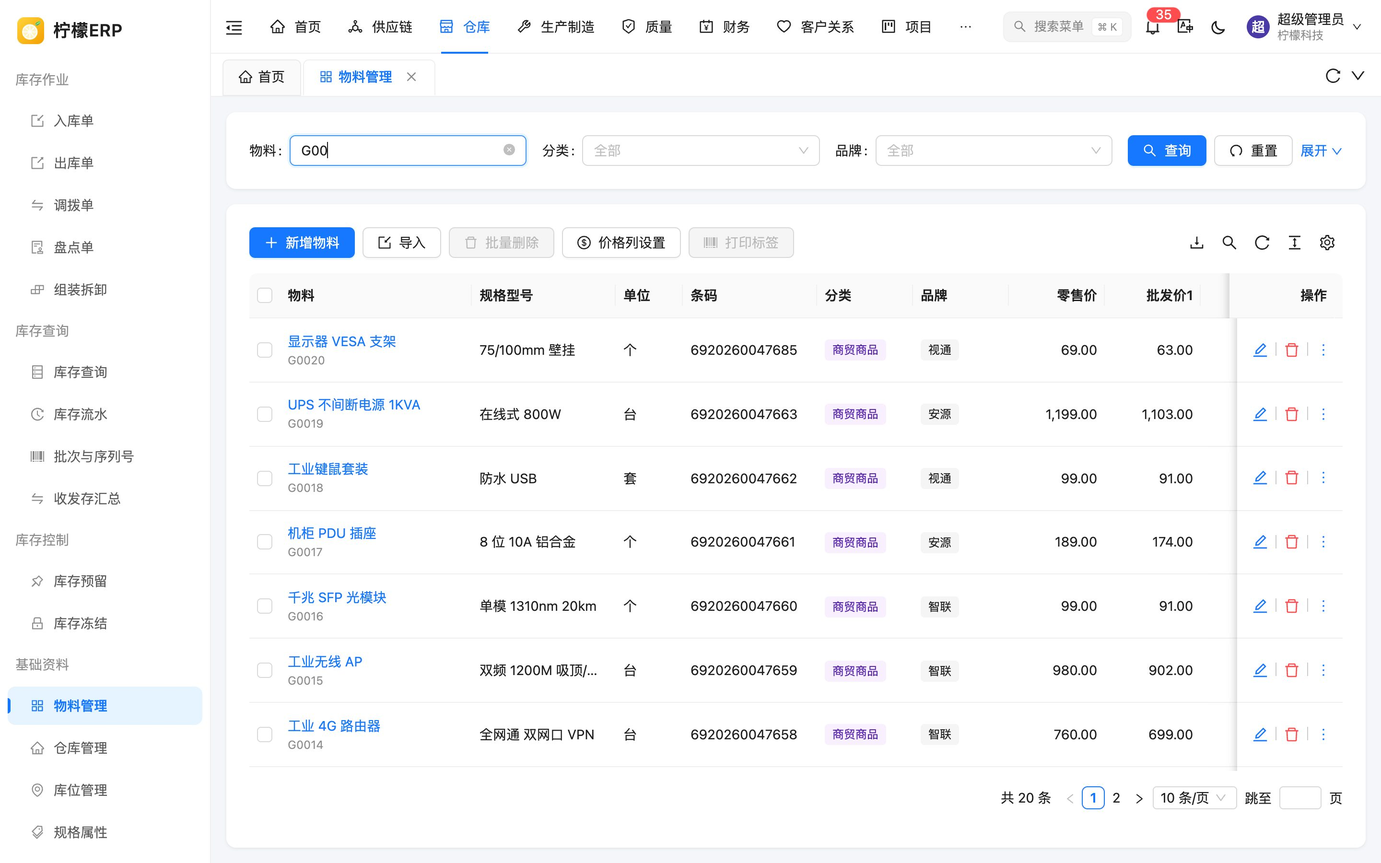
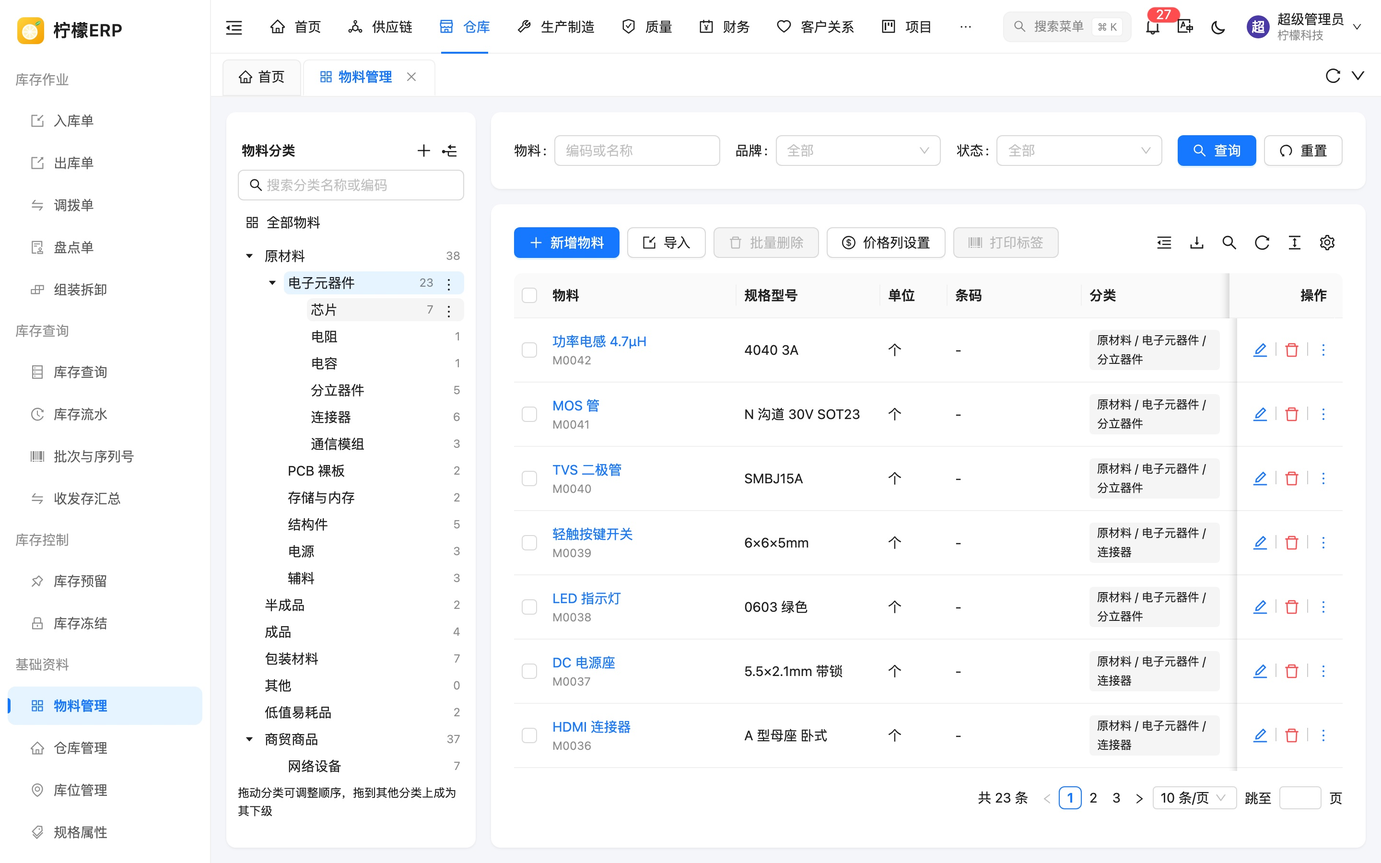
docs: 物料多级分类、供应商营运路线加长的说明

diff --git a/docs/manual/wms/material.md b/docs/manual/wms/material.md
@@ -14,7 +14,9 @@ order: 10
 
 ## 列表
 
-**查询条件**：物料（编码或名称）、分类、品牌、状态（启用 / 停用）。
+页面左侧是[物料分类](#物料分类)树，右侧是物料列表。点击左侧的分类，列表只显示该分类及其所有下级分类的物料；点「全部物料」恢复显示全部。
+
+**查询条件**：物料（编码或名称）、品牌、状态（启用 / 停用）；分类在左侧分类树中选择。
 
 **工具栏**：
 
@@ -26,6 +28,7 @@ order: 10
 | 价格列设置 | 设置零售价、批发价1～8 的名称和是否启用（需要「价格列设置」权限），见[价格列设置](#价格列设置) |
 | 打印标签（N） | 为勾选的物料（当前页）打印物料条码标签 |
 | 导出 | 按当前查询条件导出 Excel |
+| 隐藏分类 / 显示分类 | 工具栏右侧的图标按钮，收起或展开左侧的分类树，本机浏览器会记住当前状态 |
 
 ::: tip AI 识别与数据整理
 管理员开启 AI 功能后，工具栏中还有「AI 识别」：上传产品规格书、物料清单，由 [智能录入](../ai/extract) 识别后打开新增物料表单并填好，核对后保存。物料多了出现重复（如「M3*10 螺丝」与「螺钉 M3×10」）、规格写法不统一、分类或单位缺失时，可以用 [数据整理](../ai/cleanse) 让 AI 给出查重和规范化建议。
@@ -38,7 +41,7 @@ order: 10
 | 物料 | 名称（点击打开详情），多规格款式在名称后显示紫红色「款式」标签；下方为编码，SKU 在编码后显示规格（如「TS01-RD-XL · 红色 / XL」） |
 | 规格型号、单位 | — |
 | 条码 | 未填写显示「-」 |
-| 分类 | 原材料、半成品、成品、包装材料、低值易耗品、其他 |
+| 分类 | 物料分类的完整路径，如「原材料 / 电子元器件 / 连接器」 |
 | 品牌 | 业务字典「商品品牌」中的值 |
 | 零售价、批发价… | 启用的价格列，列名为价格列设置中的名称；可在列设置中隐藏 |
 | 追踪方式 | 「批次」「序列号」「来料检验」标签，都没有时显示「-」 |
@@ -60,6 +63,52 @@ order: 10
 | 更多 → 经营历史 | 查看该物料的期初余额和每一笔库存进出（单号、业务类型、往来单位、单价、数量、结余），见[经营历史](./stock#经营历史)。款式行不显示 |
 | 更多 → 多规格 | 打开多规格抽屉：为物料选择规格属性生成 SKU，已是款式时查看各 SKU 及库存矩阵、补充生成新的 SKU，见[多规格物料与 SKU](#多规格物料与-sku)。SKU 行不显示此项 |
 
+## 物料分类
+
+物料分类是多级的（最多 5 级），例如「原材料 → 电子元器件 → 电阻」，在本页左侧的「物料分类」树中维护，不再在业务字典中维护。初始有原材料、半成品、成品、包装材料、其他、低值易耗品 6 个一级分类，可以在它们下面建下级分类，也可以新增其他一级分类。
+
+**查看**：
+
+- 分类树顶部是「全部物料」，下面按层级列出分类；每个分类右侧的数字是该分类及其所有下级分类的物料数，停用的分类后面显示「停用」标签；
+- 搜索框可按分类名称或编码查找；标题右侧的按钮可以全部展开 / 全部折叠；
+- 点击分类时，右侧列出该分类及其所有下级分类的物料。
+
+**维护**（需要「物料分类维护」按钮权限，没有时分类树只能查看）：
+
+| 操作 | 说明 |
+| --- | --- |
+| 新增一级分类 | 分类树标题右侧的「+」图标 |
+| 新增下级分类 | 鼠标移到分类上，点右侧三个点图标中的「新增下级分类」；已经是第 5 级时不可用 |
+| 编辑 | 三个点菜单中的「编辑」，可修改上级分类、名称、排序、状态、备注 |
+| 删除 | 三个点菜单中的「删除」，确认后删除，不能删除的情况见下文 |
+| 拖动排序 | 直接拖动分类调整顺序；拖到其他分类上就成为它的下级。搜索时不能拖动 |
+
+新增 / 编辑分类的字段：
+
+| 字段 | 必填 | 说明 |
+| --- | --- | --- |
+| 上级分类 | 否 | 不选为一级分类。不能选它自己或它的下级 |
+| 分类编码 | 否 | 只能包含字母、数字、下划线和短横线，不超过 16 位，不能重复；**留空自动生成**（如 C0001）。物料、检验方案、促销等按编码关联，**保存后不能修改** |
+| 分类名称 | 是 | 最多 64 个字；同一上级下不能重名 |
+| 排序 | 否 | 留空排在最后 |
+| 状态 | 是 | 停用后不能再给物料选择该分类及其下级分类，已有物料不受影响 |
+| 备注 | 否 | 最多 255 字 |
+
+因为各处按编码关联分类，修改分类名称、移动到其他上级、调整层级都不影响已有的物料和设置，显示的名称和路径会随之变化。
+
+**不能删除的情况**（删除时提示原因）：
+
+- 下面还有下级分类：先删除或移走下级分类；
+- 分类下有物料：先把物料改到其他分类，或者停用该分类；
+- 被[检验方案](../qms/plan)、[促销活动](../scm/promotion)、[返利协议](../scm/rebate)的返利项目、[提成规则](../scm/commission)、[凭证科目设置](../fin/account-rule)引用；
+- 内置分类（原材料、半成品、成品、低值易耗品）：系统按它们计算凭证科目、低值易耗品领用等，不能删除，可以改名或停用。
+
+**下级分类的规则**：
+
+- 按分类筛选的地方（本页、[商品价格](../scm/goods-price)、[库存查询](./stock)、收发存汇总、库龄分析、[进销存报表](../scm/jxc)、[生产统计](../mes/stat)、[销售预测](../bi/decision)等）选择上级分类时，**包含所有下级分类**的物料；
+- 按分类设置的规则（[检验方案](../qms/plan)、[促销](../scm/promotion)、[销售提成](../scm/commission)、[凭证科目设置](../fin/account-rule)）中，**上级分类的设置对下级分类同样适用**；下级分类自己有设置时用自己的，多级上级都有设置时取最近的一级；
+- 按分类汇总的报表按物料所在的分类分别统计，名称显示完整路径。
+
 ## 新增 / 编辑物料
 
 ![编辑物料](/images/manual/wms/material-edit.jpg)
@@ -72,8 +121,8 @@ order: 10
 | 物料名称 | 是 | 最多 128 字 |
 | 规格型号 | 否 | — |
 | 计量单位 | 否 | 基本单位，可从常用单位（个、件、台、箱、包、桶、瓶、袋、kg、g、L、m）中选或自行输入。库存、成本都按基本单位 |
-| 分类 | 否 | 物料分类字典 |
-| 品牌 | 否 | 从业务字典「商品品牌」中选择（可搜索），品牌的取值在「系统管理 → [字典管理](../system/dict)」中维护；[进销存报表](../scm/jxc)可按品牌汇总 |
+| 分类 | 否 | 从物料分类树中选择（可搜索），选中后显示完整路径。可以选任意一级分类；已停用的分类及其下级不能选择 |
+| 品牌 | 否 | 从业务字典「商品品牌」中选择（可搜索），品牌的取值在「系统管理 → [业务字典](../system/biz-dict)」中维护；[进销存报表](../scm/jxc)可按品牌汇总 |
 | 安全库存 | 否 | 全部仓库的库存合计低于该值时预警（库存查询、首页待办）；MRP 计算净需求时也会保留这部分库存。为空不预警 |
 | 再订货点 | 否 | 预计库存（可用 + 采购在途 + 在制 − 销售待发 − 工单待领料）不高于此值时，出现在「供应链 → 采购 → [补货建议](../scm/reorder)」中。为空不参与 |
 | 再订货量 | 否 | 经济批量，补货建议的建议数量 |
@@ -236,6 +285,16 @@ order: 10
 
 点击「导入」：先「下载导入模板」，按模板填写后上传 .xlsx 文件。可导入的列：物料编码 *、物料名称 *、规格型号、计量单位、分类、品牌、批次管理（是 / 否）、序列号管理（是 / 否）、来料检验（是 / 否）、安全库存、启用的各价格列（列名为价格列设置中的名称）、备注。品牌须是「商品品牌」字典中的值。带 * 的列必填，**任何一行有错误时整批不导入**，弹窗中列出错误行。
 
+「分类」列可以按以下任一种写法填写，须是未停用的分类：
+
+| 写法 | 示例 | 说明 |
+| --- | --- | --- |
+| 分类编码 | RAW、C0003 | 不区分大小写 |
+| 完整路径 | 电子元器件/电阻 | 从一级分类写起，各级之间用「/」分隔，「/」两侧有没有空格都可以 |
+| 分类名称 | 电阻 | 只有一个分类叫这个名称时才能匹配；有重名时请改写编码或完整路径 |
+
+匹配不上时提示「找不到物料分类「…」（可填写分类编码、完整路径如「电子元器件/电阻」，或不重名的分类名称）」。分类需要先在左侧分类树中建好，导入不会自动新建分类。导出时「分类」列输出完整路径，可以直接再导入。
+
 ## 打印物料标签
 
 勾选物料（当前页）后点「打印标签（N）」：
@@ -254,5 +313,6 @@ order: 10
 - 多规格款式下还有 SKU 时不能删除；款式不能直接出入库，单据中请选择具体的 SKU；
 - 已发生库存业务的物料不能修改批次、序列号管理方式；
 - 条码在所有物料和辅助单位之间必须唯一；
+- 物料分类的编码保存后不能修改；有下级分类、有物料、被其他设置引用的分类以及内置分类不能删除，不用的分类可以停用；
 - 多规格款式生成 SKU 时不继承品牌和销售价格，需要为 SKU 单独填写。
 :::

diff --git a/docs/dev/architecture/tenant.md b/docs/dev/architecture/tenant.md
@@ -68,9 +68,9 @@ long total = TenantContext.callIgnore(() -> mapper.selectCount(null));
 
 | | 系统字典 `SYSTEM` | 业务字典 `BUSINESS` |
 | --- | --- | --- |
-| 内容 | 程序内置的取值：状态、单据类型、业务类型等，代码按取值判断（后端有同名枚举） | 纯分类：客户等级、物料分类、出入库类别、不良类型、假期类型、用工类型、工程变更原因、停机原因等 |
+| 内容 | 程序内置的取值：状态、单据类型、业务类型等，代码按取值判断（后端有同名枚举） | 纯分类：客户等级、商品品牌、出入库类别、不良类型、假期类型、用工类型、工程变更原因、停机原因等 |
 | 数据 | 全平台共用一份（`sys_dict_data.tenant_id = 1`），取值全部内置 | 每个租户各自一份：新租户开通时由 `SysDictTenantInitializer` 从平台复制 |
-| 维护 | 平台在「系统管理 → 字典管理」（`sys:dict:*`，平台专属）中只能修改名称、颜色、排序、备注，不能新增、删除取值或修改键值 | 租户管理员在「系统管理 → 业务字典」（`sys:bizdict:list` / `edit`）中新增、改名、停用；程序依赖的取值标记为内置（`sys_dict_data.builtin = 1`，如物料分类的低值易耗品、假期类型的年假），不能删除、不能改键值 |
+| 维护 | 平台在「系统管理 → 字典管理」（`sys:dict:*`，平台专属）中只能修改名称、颜色、排序、备注，不能新增、删除取值或修改键值 | 租户管理员在「系统管理 → 业务字典」（`sys:bizdict:list` / `edit`）中新增、改名、停用；程序依赖的取值标记为内置（`sys_dict_data.builtin = 1`，如职位类别的生产、假期类型的年假），不能删除、不能改键值 |
 | 业务代码 | 字段用枚举类型 | 字段用 `String`，保存时用 framework 的 `DictLookup.check(字典, 值, 字段名称键)` 按当前租户的字典校验，不在代码里写死允许的取值；内置取值集中定义为常量（如 `HrDictValues`） |
 
 - 字典类型的编码和种类保存后不能修改；业务字典的键值以大写字母开头，只含大写字母、数字、下划线，不超过 16 位（存入业务表的编码字段，最短为 `VARCHAR(16)`）。
@@ -84,6 +84,35 @@ long total = TenantContext.callIgnore(() -> mapper.selectCount(null));
   ```
 
 - 前端用法相同（`useDict`、`DictTag`、`/system/dict/data/type/{type}` 自动返回当前租户的业务字典）；新增字典的步骤见 [新增一个业务模块](../guide/new-module#_2-建表与字典)。
+- 需要层级、在业务页面维护的分类（如[物料分类](#物料分类)）由业务模块建表，实现 framework 的 `DictSource` 后仍可按字典类型读取：`SysDictService` 按类型读取时优先取 `DictSource`（只读、不缓存，不出现在字典管理和业务字典中）。
+
+### 物料分类
+
+物料分类是多级树（`wms_material_category`，每个租户一份，最多 5 级，`WmsMaterialCategoryService`），在「物料管理」页左侧的分类树中维护，不单独设菜单。按钮权限 `wms:material:category`（新增下级、编辑、删除、拖动排序 / 改上级），节点显示该分类及其下级分类的物料数；分类列表 `GET /wms/material-category` 登录即可访问。
+
+**按分类编码关联**：物料（`wms_material.category`）以及检验方案、促销、返利项目、提成规则、凭证科目设置都保存**分类编码**，不改为 ID。编码保存后不能修改（新增时留空自动生成 `C0001`…），所以改名、移动、调整层级不影响已有数据。这样做的理由：
+
+1. 已有数据不用转换：升级时原业务字典的取值原样变成一级分类（编码 = 原键值），所有引用处的值都不变；
+2. 引用分类的表分布在 scm / mes / fin / bi（含 BI 事实表），按编码关联就不用逐表加列、回填；
+3. 程序依赖的取值（原材料、半成品、成品、低值易耗品，凭证科目的预置值、低值易耗品领用）继续按编码使用。
+
+**下级分类的规则**：分类有祖级 ID 路径 `ancestors`（如 `0,3,7`）。
+
+- **按分类筛选时包含下级分类**：Java 中用 `tree().subtree(编码)`，mapper XML 中引用公共子查询（只读）：
+
+  ```xml
+  m.category IN (<include refid="com.lemon.erp.modules.wms.mapper.WmsMaterialCategoryMapper.subtreeCodes"><property name="code" value="q.category"/></include>)
+  ```
+
+  物料管理、商品价格、库存查询、收发存、库龄、进销存报表与商品分析、生产统计、销售预测、AI 问数的库存 / 收发存工具都是如此；进销存报表按分类汇总后穿透只取该分类本身（`JxcQuery.drillCategory`），与汇总口径一致。
+- **按分类匹配规则时下级分类沿用上级的设置**，最近的优先（`MaterialCategoryTree.lineage` 返回自身及各级上级的编码）：检验方案（mapper 按祖级路径匹配，`QmsInspectionPlanMapper.selectMatch`）、促销（`PromotionCalculator`，指定分类的促销对下级分类的物料同样适用）、提成规则（同为指定分类时取最近的上级）、凭证科目设置（含预置科目，如低值易耗品的下级分类也是周转材料）、低值易耗品领用。
+- 按分类汇总的报表、BI 维度按物料的分类编码分组，名称显示完整路径（如「电子元器件 / 电阻」）。
+
+**校验与删除**：同一上级下名称不重复；停用的分类及其下级不能再给物料选用（`checkUsable`，已有物料不受影响）；有下级、被物料引用、被其他单据引用（`ReferenceGuard`，`RefType.MATERIAL_CATEGORY`，各模块按编码只读关联分类表检查）或内置（原材料、半成品、成品、低值易耗品，程序按编码使用）的不能删除。
+
+**导入导出**：物料导入的「分类」列可填分类编码、完整路径（`电子元器件/电阻`，`/` 两侧空格可有可无）或不重名的分类名称（`MaterialCategoryTree.resolve`，智能录入、数据整理同此规则），导出为完整路径。
+
+**按字典读取（`DictSource`）**：原来的业务字典 `wms_material_category` 已迁移为一级分类并删除。分类服务实现 framework 的 `DictSource`，按字典类型 `wms_material_category` 读取（`/system/dict/data/type/...`、`DictLookup`、按字典显示名称的报表和 BI 维度）时提供「编码 → 完整路径」（只含可选用的分类），所以前端 `<DictTag type="wms_material_category">`、`useDict`、`DictLookup.check`（返利项目）都不用改。选择分类用 `components/wms/MaterialCategorySelect.vue`（树形，`usable-only` 用于表单），分类数据用 `composables/useMaterialCategories`（全局缓存，维护后 `reload`）。新租户由 `WmsTenantInitializer` 按层级复制平台的分类。
 
 ## 租户套餐与租户管理员
 

diff --git a/docs/dev/deploy/upgrade.md b/docs/dev/deploy/upgrade.md
@@ -104,8 +104,10 @@ redis-cli -a 密码 del settings:all
 | `20261110_trade_discount_freight.sql` | 整单优惠不改变价格体系：出入库单记录本单分摊的整单优惠，明细记录优惠前单价和分摊额（按订单明细的分摊额回填已有单据，并按优惠前单价重算受影响的价格记忆）；询价单的供应商整单优惠承诺（新表）；采购入库运费（运费、承担方、承运供应商，应收应付来源「采购运费」）；发运单运费承担方（默认本公司承担，与原来一致）及代垫运费应收单；系统字典「运费承担」。销售毛利扣坏账、运费的口径只是查询，不需要改库 |
 | `20261111_fund_transfer_fields.sql` | 账户调拨（issue #66）：经办人、票据号码（可空）；手续费承担方改称「手续费支付账户」（系统字典 `fin_fee_bearer` 改名，取值名称改为「转出账户支付」「转入账户支付」，只改仍为原名称的）。手续费单独生成凭证分录（出纳日记账中作为支付账户的一笔支出）、收支汇总单列调拨手续费只是程序变化，已有调拨的凭证保持原样 |
 | `20261111_purchase_discount_freight.sql` | 采购入库的订单优惠、运费、承运商（issue #68）：引用订单的采购入库可修改本单订单优惠，记录与按订单分摊之差（`scm_trade_doc.discount_adjust`，已有单据为 0）；采购运费的入账方式（`scm_trade_doc.freight_cost`，已有带运费的入库单为计入存货成本 `INVENTORY`）；供应商的物流公司标识和营运路线（`scm_supplier.logistics` / `routes`），已被用作承运商（采购入库承运商、发运单运费结算供应商）的供应商标记为物流公司。业务参数「本公司承担的采购运费计入」（`scm.purchaseFreight.cost`，默认存货成本）、凭证科目「采购运费（计入当期费用时）」使用默认值，不需要改库 |
+| `20261111_supplier_routes.sql` | 供应商营运路线加长（issue #81）：`scm_supplier.routes` 从 VARCHAR(255) 加长到 VARCHAR(1000)，已加长的跳过；列不存在时直接按 1000 新增 |
 | `20261111_trade_draft.sql` | 进销存单据草稿与审核（issue #68）：新表 `scm_trade_draft` / `scm_trade_draft_item`（采购入库 / 退货、销售出库 / 退货的草稿，审核后生成出入库单并删除）；出入库单的审核人、审核时间（`scm_trade_doc.post_by`、`post_time`，已有单据取制单人、创建时间）；菜单「采购入库审核」等 4 个审核按钮（`scm:{purchaseIn,purchaseReturn,salesOut,salesReturn}:post`），包含对应页面的套餐加入，有新增按钮的角色和能查看页面的会计角色同时授权。是否启用由业务参数「进销存单据先存草稿」（`scm.tradeDoc.draft`，默认关闭）控制 |
 | `20261111_trade_freight.sql` | 销售出库、销售退货、采购退货的运费（issue #72、#73）：出入库单和草稿的付给承运商方式、现付付款账户（`scm_trade_doc` / `scm_trade_draft` 的 `freight_settle`、`freight_account_id`），出入库单生成的往来单位代垫运费单据、费用支出单（`scm_trade_doc.freight_partner_bill_id`、`freight_io_id`），已有单据为空；其他收支单的来源单据（`fin_io_doc.source_type` / `source_id` / `source_no`，索引 `idx_io_doc_source`）；收支类别的内置标识（`fin_io_category.code`，唯一键 `uk_io_category_code`），平台和已有租户各增加内置类别「销售运费」「代垫运费」（科目取该租户凭证科目设置中的销售运费 / 代垫运费，没有设置按编码 6601 / 1221；已有同名支出类别时直接标记为内置）；应收应付单、供应商对账单明细的来源字段加长到 32（`fin_bill.source_type`、`fin_supplier_statement_line.source_type`）；系统字典「运费结算方式」`scm_freight_settle`，应收应付来源增加「销售运费」`SALES_FREIGHT`、「销售退货运费」`SALES_RETURN_FREIGHT`、「采购退货运费」`PURCHASE_RETURN_FREIGHT`。要给草稿表加列，按文件名顺序排在 `20261111_trade_draft.sql` 之后执行 |
+| `20261111_wms_material_category.sql` | 物料（商品）多级分类：新表 `wms_material_category`（每个租户一份，物料等仍按分类编码关联），物料表增加分类索引；各租户的业务字典 `wms_material_category` 迁为一级分类（编码 = 原键值、名称 = 原标签，排序、状态、内置标记沿用，已有物料和检验方案、促销、提成规则、凭证科目设置中的分类不变；物料上有、字典中已删除的编码补为一级分类，缺少的内置分类从平台补上），然后删除该业务字典（分类改在「物料管理」左侧的分类树中维护）；按钮「物料分类维护」（`wms:material:category`），包含物料管理的套餐加入，有物料修改权限的角色同时授权。**升级后清空「字典数据」缓存**（缓存监控中清空，或删除 Redis 中的 `dict:*`），清除原物料分类字典的旧缓存 |
 
 之后的变更按 `YYYYMMDD_名称.sql`（变更当天的日期）新增。升级时按文件名顺序执行**部署之后**新增的脚本：
 

diff --git a/docs/manual/system/index.md b/docs/manual/system/index.md
@@ -13,7 +13,7 @@
 | [角色管理](./role) | 角色的基本信息、菜单权限、数据权限和成员 | 内置 16 个岗位角色 |
 | [菜单管理](./menu) | 维护目录、菜单、按钮三级权限 | 平台专属 |
 | [字典管理](./dict) | 维护字典类型和系统字典（单据状态、类型等）的名称、颜色 | 平台专属 |
-| [业务字典](./biz-dict) | 本企业的下拉选项：客户等级、物料分类、不良类型、假期类型、出入库类别、停机原因等，可新增取值 | 每个租户独立 |
+| [业务字典](./biz-dict) | 本企业的下拉选项：客户等级、商品品牌、不良类型、假期类型、出入库类别、停机原因等，可新增取值 | 每个租户独立 |
 | [租户管理](./tenant) | 开通租户、设置到期时间和账号上限 | 仅 SaaS 模式显示，平台专属 |
 | [租户套餐](./tenant-package) | 定义租户可用的菜单范围 | 仅 SaaS 模式显示，平台专属 |
 | [编码规则](./code-rule) | 设置各类单据、主数据的编号格式 | 每个租户独立 |
@@ -40,7 +40,7 @@
 | 4 | [用户管理](./user) | 为员工开通账号，选择所属部门、分配角色；也可以在人力资源的[员工录用](../hr/employee#办理入职)时自动开通账号 |
 | 5 | [编码规则](./code-rule) | 确认各单据编号的前缀、日期格式、流水位数和重置周期，上线前定好，避免中途修改造成编号风格不一致 |
 | 6 | [打印模板](./print-template) | 在「通用设置」中填写公司名称，按需调整采购订单、出入库单、记账凭证等单据的纸张和版式；使用预印单据纸的设置[套打](./print-template#套打)；调整物料、库位、箱标签 |
-| 7 | [业务参数](./biz-rule)、[业务字典](./biz-dict) | 与业务部门确认是否允许采购超收、销售超发及比例，客户信用额度在审核还是出库时控制，是否允许制单人审核自己的凭证；与人事确认月计薪天数、每日工时、默认社保比例、迟到早退扣款、午休扣除阈值与午休时长、病假扣发比例、加班倍数、个税基本减除费用和默认试用期；在业务字典中按企业习惯调整客户等级、物料分类、不良类型、假期类型、出入库类别、停机原因等下拉选项（新增需要的取值，停用用不到的取值） |
+| 7 | [业务参数](./biz-rule)、[业务字典](./biz-dict) | 与业务部门确认是否允许采购超收、销售超发及比例，客户信用额度在审核还是出库时控制，是否允许制单人审核自己的凭证；与人事确认月计薪天数、每日工时、默认社保比例、迟到早退扣款、午休扣除阈值与午休时长、病假扣发比例、加班倍数、个税基本减除费用和默认试用期；在业务字典中按企业习惯调整客户等级、商品品牌、不良类型、假期类型、出入库类别、停机原因等下拉选项（新增需要的取值，停用用不到的取值） |
 | 8 | [自定义字段](./custom-field)（可选） | 录入基础资料之前，为客户、供应商、物料、订单补充企业需要的扩展字段（如品牌、行业），录入时一并填写 |
 | 9 | 各业务模块基础资料 | [仓库](../wms/warehouse)与[库位](../wms/location)、[规格属性](../wms/attribute)与[物料](../wms/material)（含计价方法、多规格）、[供应商](../scm/supplier)、[客户](../scm/customer)、[会计科目](../fin/account)（含辅助核算）、员工档案、[工作中心](../mes/work-center)与 [BOM](../mes/bom) 等，参见各模块章节，例如[仓库管理](../wms/)、[供应链管理](../scm/)、[人力资源](../hr/)、[生产制造](../mes/) |
 | 10 | [凭证科目设置](../fin/account-rule) | 确认自动生成凭证使用的科目：往来、存货与成本、收入与费用、税费、资产、薪酬、期末；存货、收入、成本可按物料分类，工资费用可按职位类别分别设置。只影响之后生成的凭证，务必在业务开始前设好 |

diff --git a/docs/manual/fin/account-rule.md b/docs/manual/fin/account-rule.md
@@ -93,13 +93,13 @@ order: 28
 
 ![存货按物料分类设置](/images/manual/fin/account-rule-inventory.jpg)
 
-「存货」「主营业务收入」「主营业务成本」下方列出全部物料分类（原材料、半成品、成品、包装材料、其他、低值易耗品等，来自字典「物料分类」）；「工资费用」下方列出全部职位类别（管理、技术、生产、销售、职能，来自字典「职位类别」）；「其他入库对方科目」下方列出全部入库类别、「其他出库对方科目」下方列出全部出库类别（来自[业务字典](../system/biz-dict)「入库类别」「出库类别」）。每个分类可以单独选择科目；在业务字典中新增的分类会自动出现在这里。
+「存货」「主营业务收入」「主营业务成本」下方列出全部启用的物料分类（原材料、半成品、成品、包装材料、其他、低值易耗品及其下级分类，显示完整路径，分类在[物料管理](../wms/material#物料分类)页面维护）；「工资费用」下方列出全部职位类别（管理、技术、生产、销售、职能，来自字典「职位类别」）；「其他入库对方科目」下方列出全部入库类别、「其他出库对方科目」下方列出全部出库类别（来自[业务字典](../system/biz-dict)「入库类别」「出库类别」）。每个分类可以单独选择科目；新增的物料分类、业务字典取值会自动出现在这里。
 
 取科目的优先顺序：
 
-1. 该分类单独设置的科目；
-2. 没有单独设置时，使用该用途上方设置的科目（分类选择框提示「同上：…」）；
-3. 用途也没有设置时，使用该分类的预置科目（提示「预置：…」）；其他出入库对方科目没有预置科目，沿用「待处理财产损溢（盘盈盘亏）」的设置（提示「同「待处理财产损溢（盘盈盘亏）」：…」）。
+1. 该分类单独设置的科目；物料分类没有单独设置时，依次取各级上级分类的设置（最近的优先），例如只为「原材料」设置了存货科目，「原材料 / 电子元器件 / 电阻」也使用这个科目；
+2. 分类及其上级都没有单独设置时，使用该用途上方设置的科目（分类选择框提示「同上：…」）；
+3. 用途也没有设置时，使用该分类的预置科目（提示「预置：…」）；物料分类的预置科目同样按最近的上级取，例如「低值易耗品」的下级分类也记周转材料 1411；其他出入库对方科目没有预置科目，沿用「待处理财产损溢（盘盈盘亏）」的设置（提示「同「待处理财产损溢（盘盈盘亏）」：…」）。
 
 ::: warning 注意
 为「存货」或「工资费用」设置了用途科目后，**没有单独设置的分类也会改用这个科目**，不再按分类区分预置科目。例如把存货设为 1403 原材料后，半成品、成品、低值易耗品也会记到 1403，除非再分别为它们选择科目。

diff --git a/docs/manual/system/dict.md b/docs/manual/system/dict.md
@@ -16,16 +16,16 @@ order: 5
 
 | | 系统字典 | 业务字典 |
 | --- | --- | --- |
-| 用途 | 单据状态、单据类型、操作类型等由程序控制的取值，程序按键值判断业务逻辑 | 企业按管理习惯分类的选项，如客户等级、物料分类、不良类型、假期类型、出入库类别、停机原因 |
+| 用途 | 单据状态、单据类型、操作类型等由程序控制的取值，程序按键值判断业务逻辑 | 企业按管理习惯分类的选项，如客户等级、商品品牌、不良类型、假期类型、出入库类别、停机原因 |
 | 数据归属 | 全平台共用一份 | 每个租户各自一份，新租户开通时从平台复制 |
 | 谁来维护 | 平台管理员在本页维护 | 各企业管理员在「系统管理 → [业务字典](./biz-dict)」中维护；平台在本页维护的是平台自己的取值，也是新租户的默认取值 |
 | 能改什么 | 只能修改名称（数据标签）、颜色、排序、备注；**不能新增、删除取值，不能改键值和状态** | 可以新增取值、修改名称和颜色、停用、删除；标记为「内置」的取值不能删除、不能改键值 |
 | 键值格式 | 由程序内置 | 大写字母开头，只能包含大写字母、数字、下划线，不超过 16 位 |
 | 删除字典类型 | 不能删除 | 没有内置取值的可以删除（全部租户的取值一并删除） |
 
-哪些字典属于业务字典、各有哪些内置取值，见[业务字典](./biz-dict#有哪些业务字典)。除此之外的字典（如各类单据状态、出入库类型、销售阶段、项目费用类型、不合格品来源、通用状态等）都是系统字典。
+哪些字典属于业务字典、各有哪些内置取值，见[业务字典](./biz-dict#有哪些业务字典)。物料分类是多级的，在[物料管理](../wms/material#物料分类)页面左侧的分类树中维护，不属于字典。除此之外的字典（如各类单据状态、出入库类型、销售阶段、项目费用类型、不合格品来源、通用状态等）都是系统字典。
 
-**内置取值**：程序依赖的取值（系统字典的全部取值，以及业务字典中被程序引用的取值，例如物料分类的「原材料」「成品」、假期类型的「年假」「调休」）。内置取值不能删除、不能改键值，可以改名称和颜色；业务字典的内置取值不需要时可以停用。
+**内置取值**：程序依赖的取值（系统字典的全部取值，以及业务字典中被程序引用的取值，例如职位类别的「生产」「销售」、假期类型的「年假」「调休」）。内置取值不能删除、不能改键值，可以改名称和颜色；业务字典的内置取值不需要时可以停用。
 
 ## 页面入口
 

diff --git a/docs/dev/architecture/integration.md b/docs/dev/architecture/integration.md
@@ -353,7 +353,7 @@ Long expense = accountRules.accountId(AccountRole.SALARY_EXPENSE, positionCatego
 ```
 
 - `fin/model/AccountRole` 枚举列出全部用途（分组：往来、存货与成本、收入与费用、税费、资产、薪酬、期末），每个用途带默认科目编码（`init.sql` 预置的科目）；存货（`INVENTORY`）、主营业务收入（`REVENUE`）、主营业务成本（`COST_OF_SALES`）可按物料分类，工资费用（`SALARY_EXPENSE`）可按职位类别，其他入库 / 其他出库的对方科目（`OTHER_IN_OFFSET` / `OTHER_OUT_OFFSET`）可按收发类别（维度 `IN_CATEGORY` / `OUT_CATEGORY`）分别设置；用途可声明后备用途（`AccountRole.fallback()`），没有任何设置时沿用后备用途的科目（其他出入库对方科目 → 待处理财产损溢 `PENDING_LOSS`）；
-- `FinAccountRuleService.accountId(用途[, 维度取值])` 的取值顺序：用途 + 维度取值的设置 → 用途的设置 → 默认科目编码（带维度的用途还可以按维度给默认值，如半成品、成品的存货默认为库存商品 1405，低值易耗品为周转材料 1411；生产岗位的工资费用为制造费用 5101，销售岗位为销售费用 6601）；
+- `FinAccountRuleService.accountId(用途[, 维度取值])` 的取值顺序：用途 + 维度取值的设置（物料分类没有单独设置时依次取各级上级分类的设置，`MaterialCategoryTree.lineage`）→ 用途的设置 → 默认科目编码（物料分类同样按最近的上级取预置值；带维度的用途还可以按维度给默认值，如半成品、成品的存货默认为库存商品 1405，低值易耗品为周转材料 1411；生产岗位的工资费用为制造费用 5101，销售岗位为销售费用 6601）；
 - 设置保存在 `fin_account_rule`（按租户），设置的科目必须是启用的末级科目，被设置引用的科目不能删除、不能增加下级；修改只影响之后生成的凭证；
 - 其他模块（hr 工资、pm 项目月结等）同样注入 `FinAccountRuleService` 取科目；新增自动凭证的用途时在 `AccountRole` 中登记，「凭证科目设置」页面自动列出；
 - 科目范围用途（`AccountRole.scope()`：库存现金 `CASH` 1001、银行存款 `BANK` 1002）设置的是一个科目及其全部下级，可以是上级科目：结算账户校验、银行对账、出纳日记账、现金流量表、资金计划按 `FinAccountService.cashCodes()` / `roleCode(用途)` 识别，前端 `AccountSelect` 用 `:roles="['CASH', 'BANK']"` 限定可选科目；Java 代码中不写科目编码，只有报表格式（资产负债表、利润表模板，现金流量表按一级科目归类）按企业会计准则的编码前缀定义。

diff --git a/docs/manual/scm/supplier.md b/docs/manual/scm/supplier.md
@@ -16,7 +16,7 @@ order: 300
 
 **查询条件**：供应商（编码或名称）、等级、类型（物流公司 / 其他供应商）、状态。
 
-**列表列**：供应商（名称，下方为编码；物流公司在名称旁显示「物流公司」标签，鼠标悬停显示营运路线）、等级（A 优秀 / B 良好 / C 合格 / D 待改进）、联系人（下方为电话）、账期（为 0 显示「现结」）、地址、状态（启用 / 停用开关，有编辑权限时可直接切换）、备注，以及在「系统管理 → [自定义字段](../system/custom-field)」中为供应商定义并勾选了「列表显示」的扩展字段。
+**列表列**：供应商（名称，下方为编码；物流公司在名称旁显示「物流公司」标签；营运路线显示在编码后面，过长时省略，鼠标悬停看全文）、等级（A 优秀 / B 良好 / C 合格 / D 待改进）、联系人（下方为电话）、账期（为 0 显示「现结」）、地址、状态（启用 / 停用开关，有编辑权限时可直接切换）、备注，以及在「系统管理 → [自定义字段](../system/custom-field)」中为供应商定义并勾选了「列表显示」的扩展字段。
 
 **工具栏**：「新增供应商」「导入」；右侧导出、刷新等。
 
@@ -45,7 +45,7 @@ order: 300
 | 联系人、联系电话、邮箱 | 否 | 邮箱须为有效格式 |
 | 纳税人识别号、开户行、银行账号 | 否 | |
 | 类型 | 否 | 勾选「物流公司（承运商）」，提示「勾选后可在出入库单的运费（采购入库、采购退货、销售出库）和发运单中被选为承运商；应付、付款与其他供应商相同」，见下文[物流公司](#物流公司) |
-| 营运路线 | 否 | 勾选物流公司后显示，最多 255 个字符，如「华东整车、广州—上海专线」 |
+| 营运路线 | 否 | 勾选物流公司后显示，多行文本框，最多 1000 个字符，可写完整的途经站点，如「青岛北—青岛西—诸城—青州—潍坊—淄博—济南」 |
 | 地址、备注 | 否 | |
 
 管理员在「系统管理 → [自定义字段](../system/custom-field)」中为「供应商」定义了扩展字段（如资质到期日、主营品类）时，表单末尾出现「扩展信息」分区，必填的扩展字段不填不能保存。

diff --git a/docs/manual/system/biz-dict.md b/docs/manual/system/biz-dict.md
@@ -4,9 +4,11 @@ order: 5.5
 
 # 业务字典
 
-业务字典是各企业（租户）自己维护的下拉选项，例如客户等级、客户来源、物料分类、不良类型、假期类型、出库类别、停机原因等。企业可以按自己的管理习惯**新增取值**、修改显示名称和颜色、停用不再使用的取值，修改只影响本企业，不影响其他租户。
+业务字典是各企业（租户）自己维护的下拉选项，例如客户等级、客户来源、商品品牌、不良类型、假期类型、出库类别、停机原因等。企业可以按自己的管理习惯**新增取值**、修改显示名称和颜色、停用不再使用的取值，修改只影响本企业，不影响其他租户。
 
 单据状态、单据类型等由程序控制流转的选项属于**系统字典**，全平台共用，由平台管理员在[字典管理](./dict)中维护，不在本页显示。两类字典的区别见[字典管理](./dict#系统字典与业务字典)。
+
+**物料分类**是多级的，在「仓库 → 基础资料 → [物料管理](../wms/material#物料分类)」页面左侧的分类树中维护，不在本页。从旧版本升级时，原来的「物料分类」业务字典的取值会原样转为一级分类（编码、名称、排序、状态、内置标记不变），然后从本页移除。
 
 ## 页面入口
 
@@ -91,7 +93,6 @@ order: 5.5
 | 跟进方式 | crm_follow_method | 跟进记录 | 电话 |
 | 受理渠道 | crm_ticket_channel | 服务工单 | 电话、上门 |
 | 优先级 | pm_priority | 项目 | 中（新建项目默认） |
-| 物料分类 | wms_material_category | [物料](../wms/material)；[凭证科目设置](../fin/account-rule)可按分类设置存货、收入、成本科目 | 原材料、半成品、成品、低值易耗品 |
 | 职位类别 | hr_position_category | 职位；[凭证科目设置](../fin/account-rule)可按类别设置工资费用科目 | 生产、销售 |
 | 结算方式 | fin_settle_method | [收款单 / 付款单](../fin/settlement)（「票据」只能由票据业务生成，手工收付款时置灰） | 银行转账、票据 |
 | 不良类型 | mes_defect_type | [质量检验](../qms/inspection)、[不合格品处理](../qms/ncr) | 其他 |

diff --git a/docs/manual/scm/commission.md b/docs/manual/scm/commission.md
@@ -40,7 +40,7 @@ order: 215
 | 规则名称 | 是 | 最多 64 字，如「销售额基础提成」 |
 | 提成依据 | 是 | 销售额 / 毛利 / 回款，默认销售额 |
 | 业务员 | 否 | 为空适用全部业务员 |
-| 物料分类 | 否 | 为空适用全部分类；依据为「回款」时不可选（回款不区分物料分类） |
+| 物料分类 | 否 | 为空适用全部分类；选择上级分类时对其所有下级分类同样适用；依据为「回款」时不可选（回款不区分物料分类） |
 | 业绩门槛 | 否 | 默认 0。业务员当月该依据的业绩**合计**达到这个金额时才适用，用于阶梯提成 |
 | 提成比例 | 是 | 0 ~ 100%，最多 3 位小数 |
 | 状态 | 否 | 默认启用；停用的规则不参与计算 |
@@ -52,9 +52,9 @@ order: 215
 
 计算时，对每个业务员、每种依据、每个物料分类（回款不分分类）分别找一条规则：
 
-1. 只看已启用、依据相同、业务员为空或就是该业务员、物料分类为空或就是该分类的规则；
+1. 只看已启用、依据相同、业务员为空或就是该业务员、物料分类为空或是该分类（或它的上级分类）的规则；
 2. 业绩门槛不超过该业务员当月**该依据的业绩合计**（不分分类）；
-3. 满足条件的规则中取最具体的：指定了业务员的优先，其次指定了物料分类的，最后是通用规则；同样具体时取门槛最高的一条；
+3. 满足条件的规则中取最具体的：指定了业务员的优先，其次指定了物料分类的，最后是通用规则；同为指定分类时，取分类最近的一级（物料所在分类的规则优先于上级分类的规则）；同样具体时取门槛最高的一条；
 4. 提成 = 该分类的业绩 × 规则比例；
 5. 不同依据的提成相加。例如同时设置了按销售额和按回款的规则，两部分提成都会计入。
 

diff --git a/docs/dev/guide/ai.md b/docs/dev/guide/ai.md
@@ -509,7 +509,7 @@ public class ScmSupplierCleanseSource implements AiCleanseSource {
 - `AiCleanseRecord` 中名称、规格、分类、单位是固定字段，联系人、地址等放在 `extra` 中（键为 `AiCleanseField.extraKey()`），其他有助于判断的字段（品牌、条码）也可以放进 `extra`；`AiCleanseRecord.TAX_NO` 键的值相同的记录直接归为疑似重复；
 - **`apply` 必须调用业务 Service 的修改方法**，不要直接写表：这样编码唯一、状态等原有校验和字段变更历史都照常生效；先用 `AiCleanseSupport.validate` 按实体注解校验长度等规则，再检查业务上的唯一性（不允许改成与其他启用记录重名）；
 - 生成建议时 AI 模块已丢弃不可修改的字段、超过 `AiCleanseField.maxLength()` 的值和不在 `categoryOptions()` 中的分类；采纳时 `AiCleanseRegistry.apply` 再检查应用权限和字段在 `editableFields()` 中，然后才调用 `apply`；每条建议一个事务，`apply` 抛出的 `BizException` 消息作为该条的失败原因显示；
-- 有分类时实现 `categoryOptions()` 返回可选值（值 → 名称，一般是 `dictLookup.options(业务字典)`），模型只能从中选择，参考 `wms/ai/WmsMaterialCleanseSource`；
+- 有分类时实现 `categoryOptions()` 返回可选值（值 → 名称，一般是 `dictLookup.options(业务字典)`），模型只能从中选择；物料分类的候选为「编码 → 完整路径」（只含可选用的分类），参考 `wms/ai/WmsMaterialCleanseSource`；
 - 可修改字段只能从 `AiCleanseField`（NAME、SPEC、CATEGORY、UNIT、CONTACT、ADDRESS）中选。需要新的字段时要在 `AiCleanseField` 中增加（列宽 `maxLength`，放在 `extra` 中的给出 `extraKey`），并在前端 `locales/<语言>/ai.js` 的 `cleanse.field` 中补充名称。
 
 ### 3. 验证
